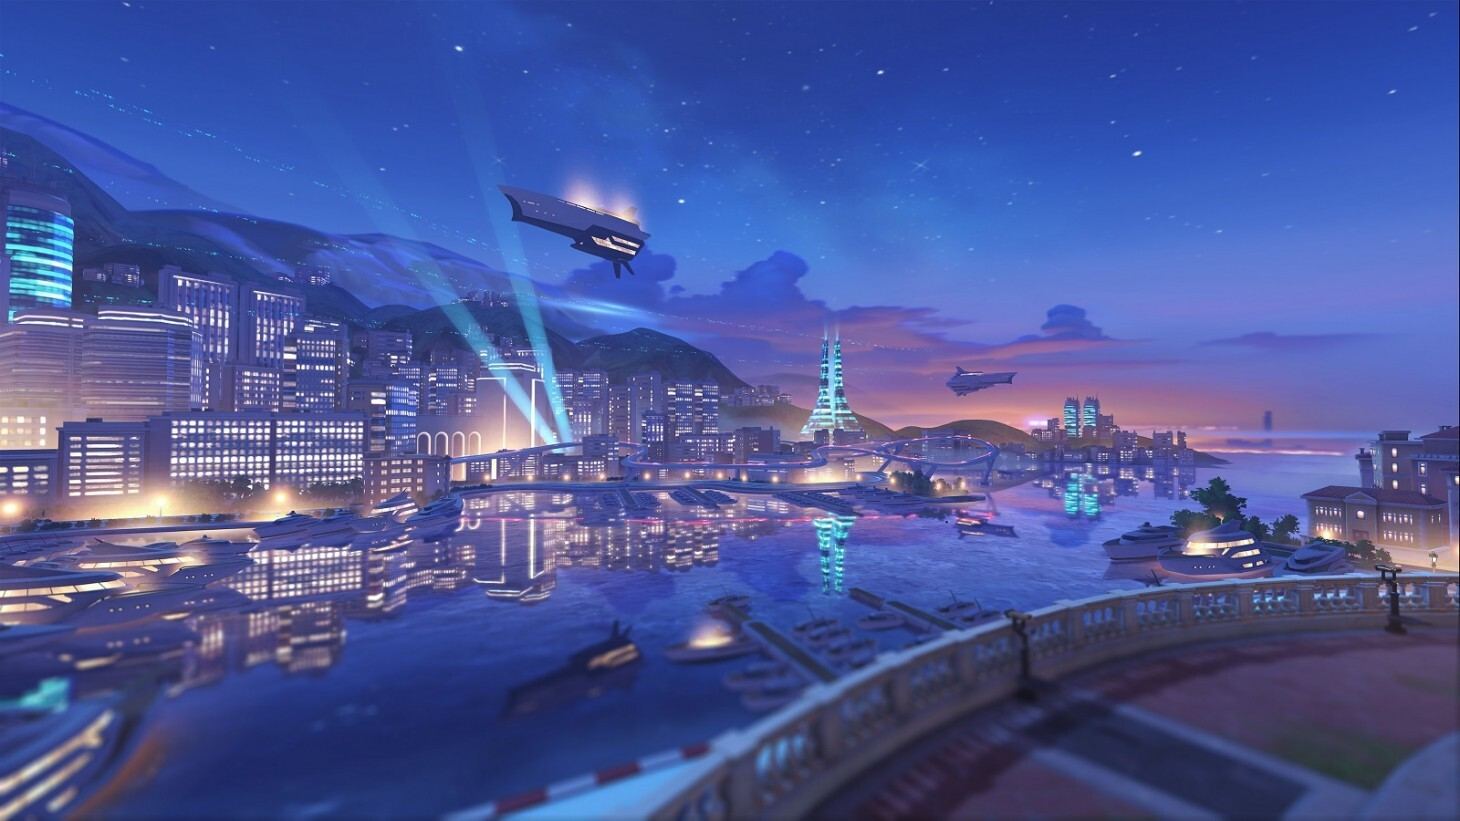
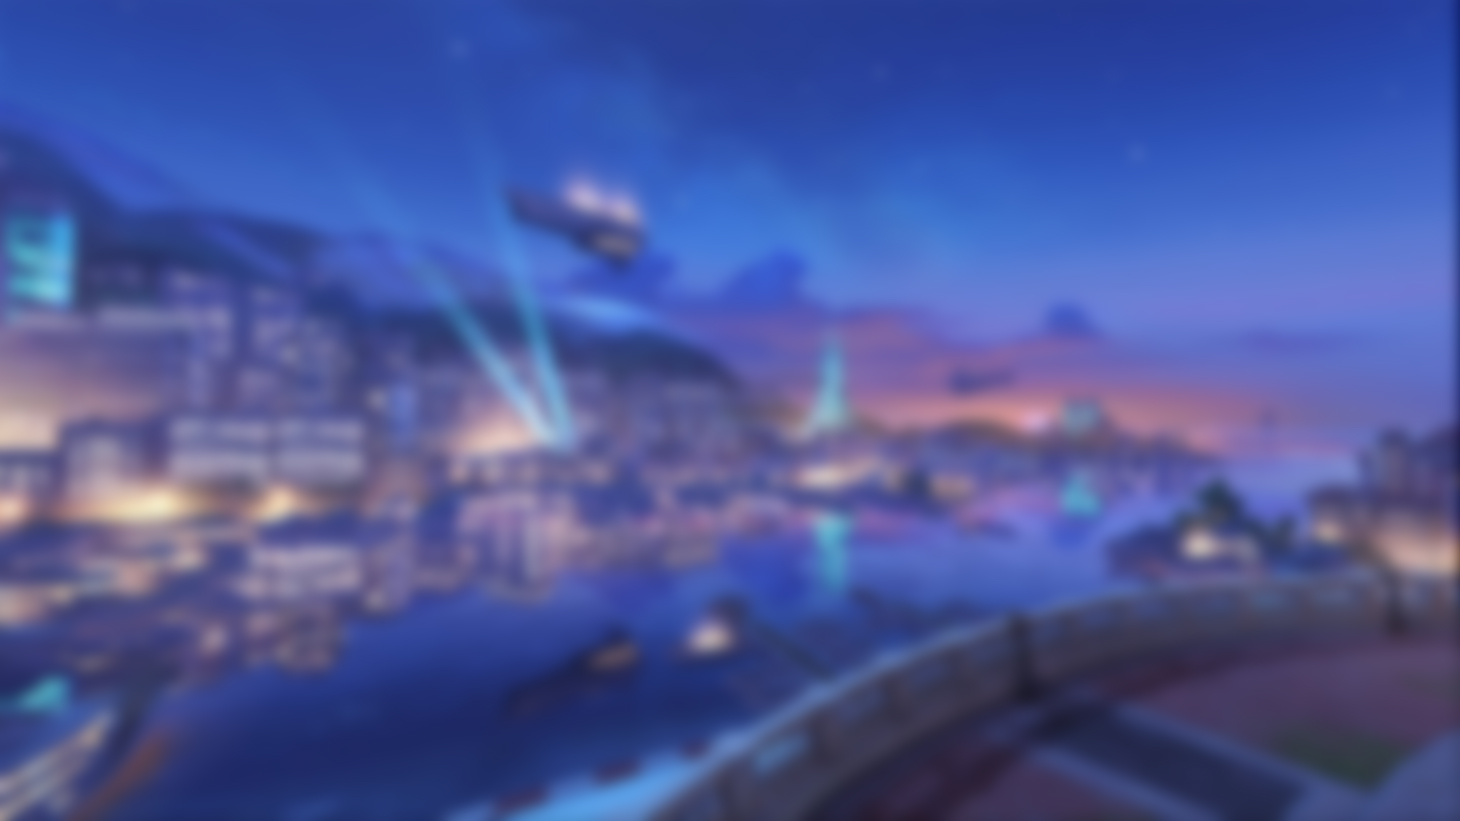
test

diff --git a/clients/src/pages/LoginPage.jsx b/clients/src/pages/LoginPage.jsx
@@ -37,20 +37,24 @@ export default function LoginPage() {
                 <form onSubmit={login} className='block'>
                 <label className="form-control w-full max-w-xs">
                     <div className="label">
-                        <span className="label-text" onChange={ev => setUsername(ev.target.value)}>USERNAME</span>
+                        <span className="label-text" >USERNAME</span>
                     </div>
-                    <input type="text" placeholder="Type here" className="input input-bordered w-full max-w-xs" />
+
+                    <input type="text" 
+                    placeholder="Type here" 
+                    className="input input-bordered w-full max-w-xs" 
+                    onChange={ev => setUsername(ev.target.value)}/>
+
                 </label>
                 <label className="form-control w-full max-w-xs">
                     <div className="label">
-                        <span className="label-text" onChange={ev => setPassword(ev.target.value)}>PASSWORD</span>
+                        <span className="label-text">PASSWORD</span>
                     </div>
+                    <input type="text" 
+                    placeholder="Type here" 
+                    className="input input-bordered w-full max-w-xs" 
+                    onChange={ev => setPassword(ev.target.value)}/>
                 </label>
-
-                
-                    
-                    
-
                     <button type="submit" className='btn glass '>Login</button>
                 </form>
             </div>

diff --git a/clients/src/Components/Navbar.jsx b/clients/src/Components/Navbar.jsx
@@ -128,7 +128,7 @@ export default function Navbar(){
                 
             <div className="flex items-center">
                     <ul className="flex justify-between gap-14 text-[18px] rounded-full">
-                    <p className="mt-1 hover:bg-[#ece9e9] hover:rounded-md p-1"><AiOutlineSearch/></p>
+                    
 
 
                 {username && (
@@ -145,8 +145,7 @@ export default function Navbar(){
                             <p className="pt-3.5 ml-1 text-xs"><AiOutlineDown/></p>
                         </div>
                         <ul tabIndex={0} className="dropdown-content z-[1] menu p-1 shadow bg-base-100 rounded-box w-52">
-                            <li className="bg-[#218FFE] h-[33px] w-[100px] rounded-md text-white text-center"><NavLink to="/community/login">Log in</NavLink></li>
-                            <li className=""><a>Account Setting</a></li>
+                            <li className="bg-[#218FFE] rounded-md text-white text-center"><NavLink to="/community/login">Log in</NavLink></li>
                             <li>
                                 <NavLink to="/community/register">Sign Up</NavLink>
                             </li>

diff --git a/clients/src/Overview.jsx b/clients/src/Overview.jsx
@@ -37,7 +37,7 @@ const Overview = () => {
       <div className="grid grid-cols-2">
         <div className="mt-28">
           <h1 className="ml-36 ">
-          <span className="text-black text-[50px] font-bold " >OVERWATCH 2 WIKI </span>
+          <span className="text- text-[50px] font-bold " >OVERWATCH 2 WIKI </span>
           <span className="text-[18px] "> <br></br>&nbsp; &nbsp; &nbsp; &nbsp; &nbsp; Overwatch 2 is a free-to-play, team-based action game set in the optimistic future, where every match is the ultimate 5v5 battlefield brawl. Play as a time-jumping freedom fighter, a beat-dropping battlefield DJ, or one of over 30 other unique heroes as you battle it out around the globe. Enjoy high-octane conflict with a fresh lineup of heroes, more maps to explore, and 5v5 combat that gives every player game-changing power.</span>
           </h1>
           <p className="italic font-bold text-center bg-[#FF9737] h-[31px] w-[200px] rounded-md text-white mt-10 ml-28 hover:bg-[#ff7a37] hover:rounded-md p-1">  JOIN OUR COMMUNITY</p>

diff --git a/clients/tailwind.config.js b/clients/tailwind.config.js
@@ -4,7 +4,7 @@ module.exports = {
   theme: {
     extend: {
       backgroundImage: {
-        "BgOverviews" : 'url("https://www.gameinformer.com/sites/default/files/styles/full/public/2021/05/20/99fb0779/montecarlo.jpg")',
+        "BgOverviews" : 'url("https://media.discordapp.net/attachments/1185980293648232581/1186684738057015356/BgOverviews.jpg?ex=65942549&is=6581b049&hm=3040ec744333efb811be0027e9a0db8ee5caefe689091132ad4d25a3ba053d6a&=&format=webp")',
         "BGHeader" : 'url("https://news.xbox.com/en-us/wp-content/uploads/sites/2/2023/08/Invasion_KeyArt_LayeredSolar_v3_3840x2160_center-00462e75b05ace708b8a.jpg")',
         "BGMaps" : 'url("https://doope.jp/media/17q4/img2205_02.jpg")'
       }
